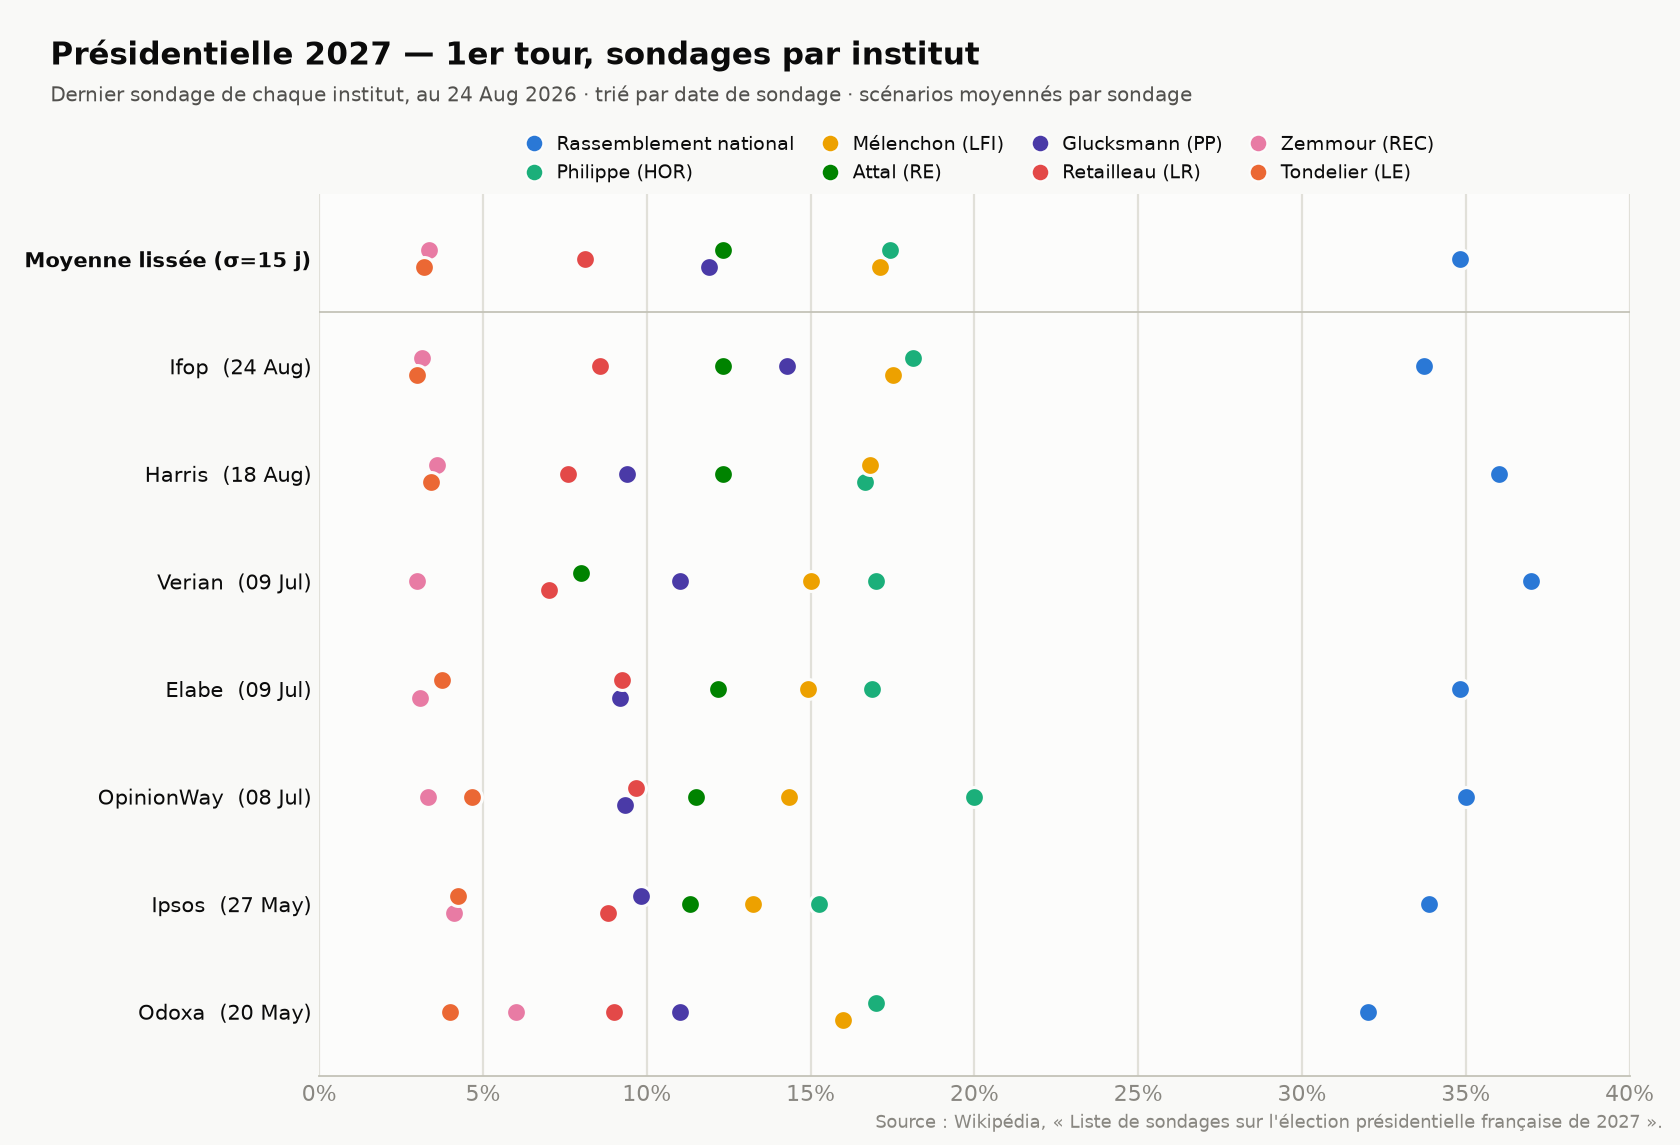
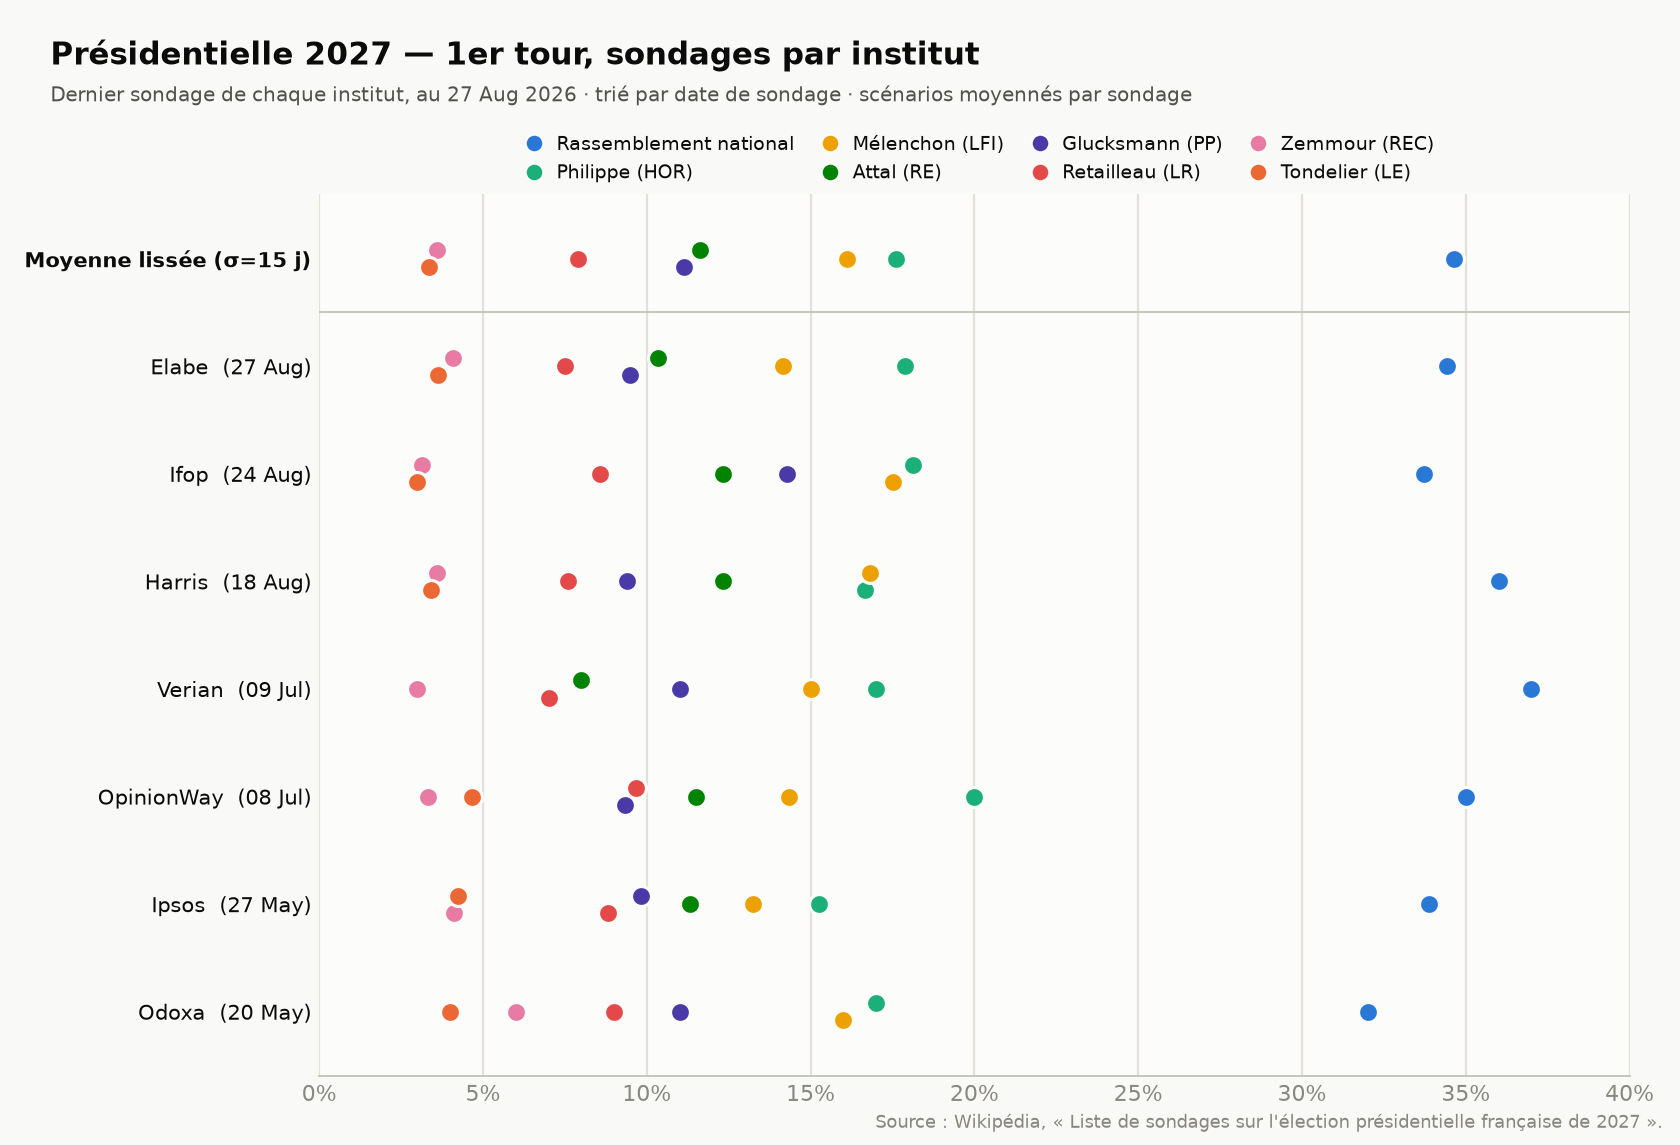
Add Elabe 26-28 August 2026 poll, handle <hr>-stacked Autre sub-values
Elabe (n=1501, 26-28 August) adds 6 scenarios. One scenario's Autre
cell stacks two named sub-values (Ruffin=6, Lisnard=3.5) separated by
<hr> instead of a single value with one substitute note -- a shape
parse_value_cell had never seen (only one occurrence in the whole
source page). Without handling it the parser kept only the first
value, leaving Autre at 6 instead of 9.5 and the row summing to 96.5
instead of 100. Sum the <hr>-separated values into the column's main
figure and combine the names into one note ("Name (value)" per
segment) so route_other's existing name-matching still works on it.

Updates README's "Latest polls" summary and pulled-on date.

diff --git a/parse_polls.py b/parse_polls.py
@@ -77,6 +77,27 @@ def parse_value_cell(raw):
     content = strip_attrs(raw)
     content = clean_text(content)
     colspan = get_attr_int(raw, 'colspan') or 1
+    if '<hr' in content:
+        # Rare shape: the cell stacks two named sub-values -- two different
+        # substitutes for the same slot, each polled separately -- divided by
+        # <hr>, rather than one value plus a note naming a single substitute.
+        # Sum the values into the column's main figure, and record each
+        # substitute as "Name (value)" so the combined note still reads like
+        # the single-substitute case route_other expects (it strips a
+        # trailing "(...)" before comparing a note segment to a known name).
+        total, parts = 0.0, []
+        for seg in re.split(r'<hr\s*/?>', content):
+            seg = seg.strip()
+            if '<br' in seg:
+                v_str, rest = re.split(r'<br\s*/?>', seg, maxsplit=1)
+                name = re.sub(r'</?small>', '', rest).strip()
+            else:
+                v_str, name = seg, ''
+            v_str = v_str.strip().replace(',', '.').replace(' ', '')
+            if v_str:
+                total += float(v_str)
+            parts.append(f"{name} ({v_str})" if name else v_str)
+        return str(total), '; '.join(p for p in parts if p), colspan
     note = None
     if '<br' in content:
         parts = re.split(r'<br\s*/?>', content, maxsplit=1)

diff --git a/README.md b/README.md
@@ -61,7 +61,7 @@ python3 parse_polls.py /tmp/frelec_raw.wiki polls_2027_second_round.csv --second
 First-round voting-intention polls, January–August 2026, scraped from the French
 Wikipedia article
 ["Liste de sondages sur l'élection présidentielle française de 2027"](https://fr.wikipedia.org/wiki/Liste_de_sondages_sur_l%27%C3%A9lection_pr%C3%A9sidentielle_fran%C3%A7aise_de_2027)
-(pulled 2026-08-27).
+(pulled 2026-08-30).
 
 Starting with the 7–8 July 2026 polls (Wikipedia's "Second semestre 2026"
 sub-table), the table switched the RN column from a hypothetical "candidate"
@@ -89,10 +89,10 @@ Lecornu, etc.). A share Wikipedia reports only as an upper bound (e.g. `<1`)
 is encoded as the midpoint of that bound (`0.5`), with the original reading
 kept in `notes`.
 
-Latest poll: Ifop (n=1598, 24–25 August) — RN (Le Pen) 33–35%, Mélenchon
-16–19%, Philippe 14.5–21%, Glucksmann 11–18%, Attal 8–15%, Retailleau 6–12%
-(the scenarios standing Hollande in for Glucksmann and Le Maire in for Attal
-are left out of those two ranges).
+Latest poll: Elabe (n=1501, 26–28 August) — RN (Le Pen) 34–35.5%, Mélenchon
+14–14.5%, Philippe 14.5–20.5%, Glucksmann 11.5–14%, Attal 6.5–12.5%,
+Retailleau 6–9.5% (the scenarios standing Hollande or Faure in for
+Glucksmann are left out of that range).
 
 Caveat (per Wikipedia, citing Le Monde): polls taken a year-plus before a French
 presidential election have historically been poor predictors — in 2022 LFI
